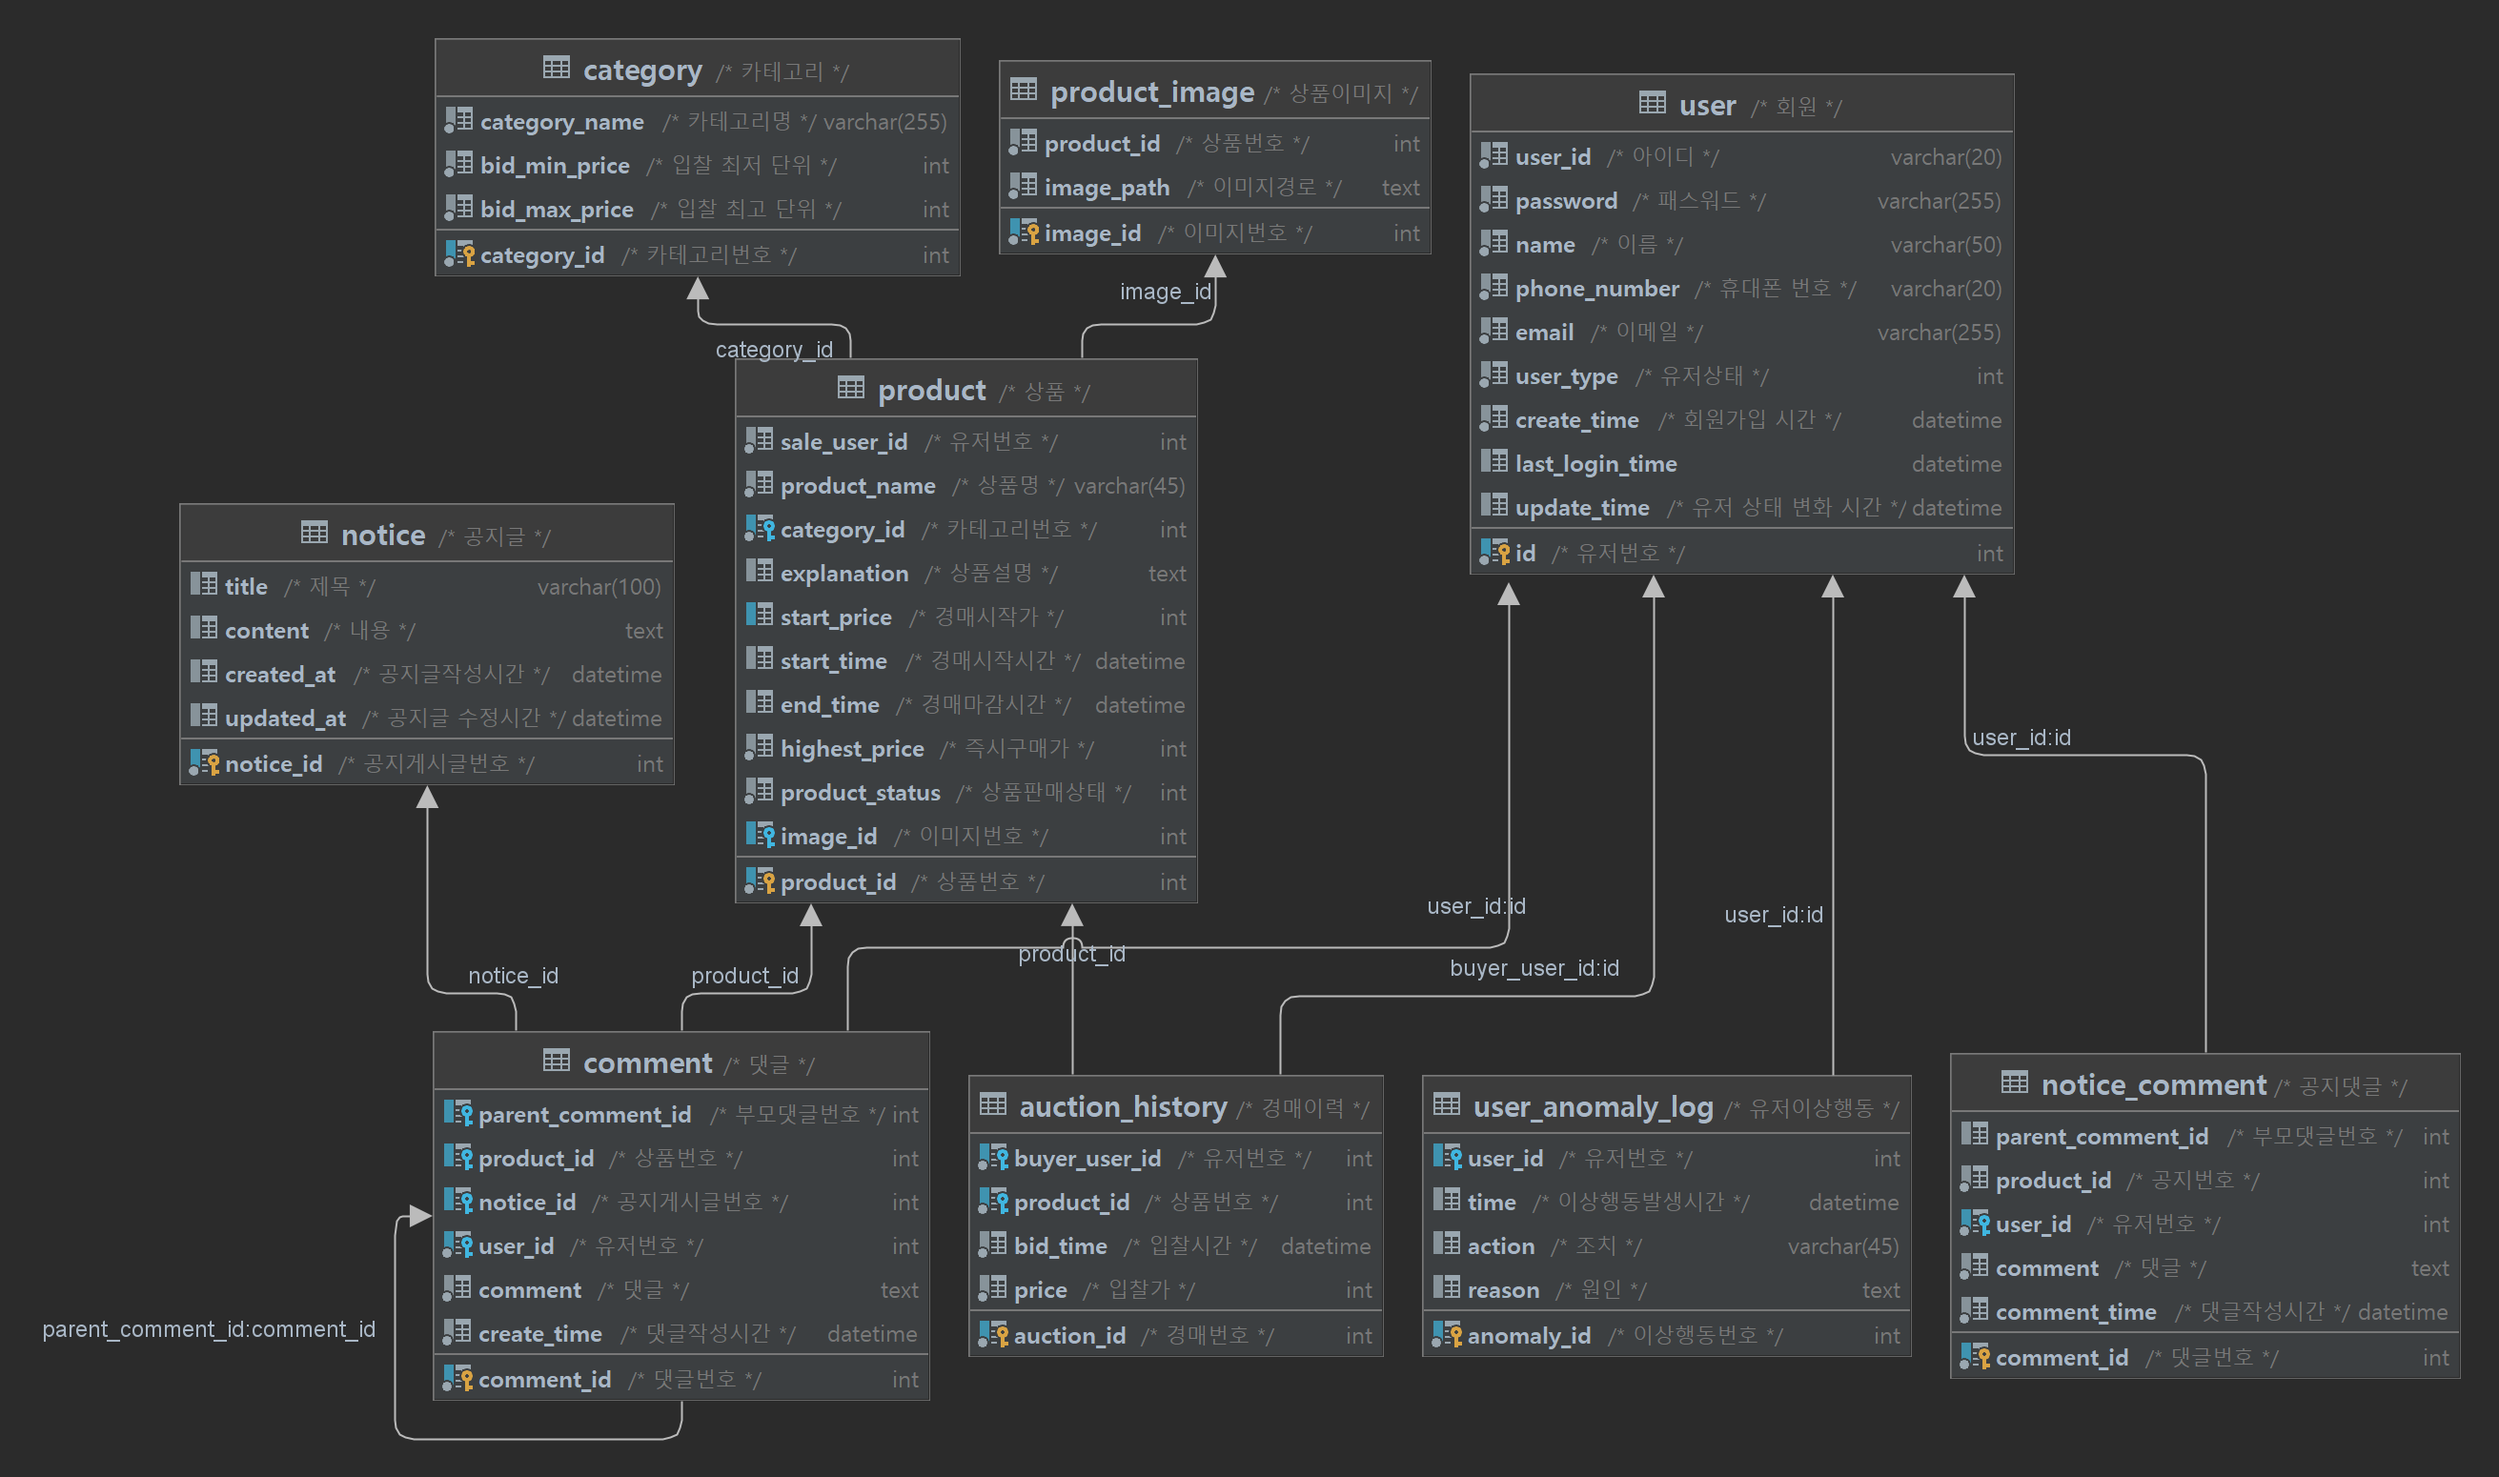
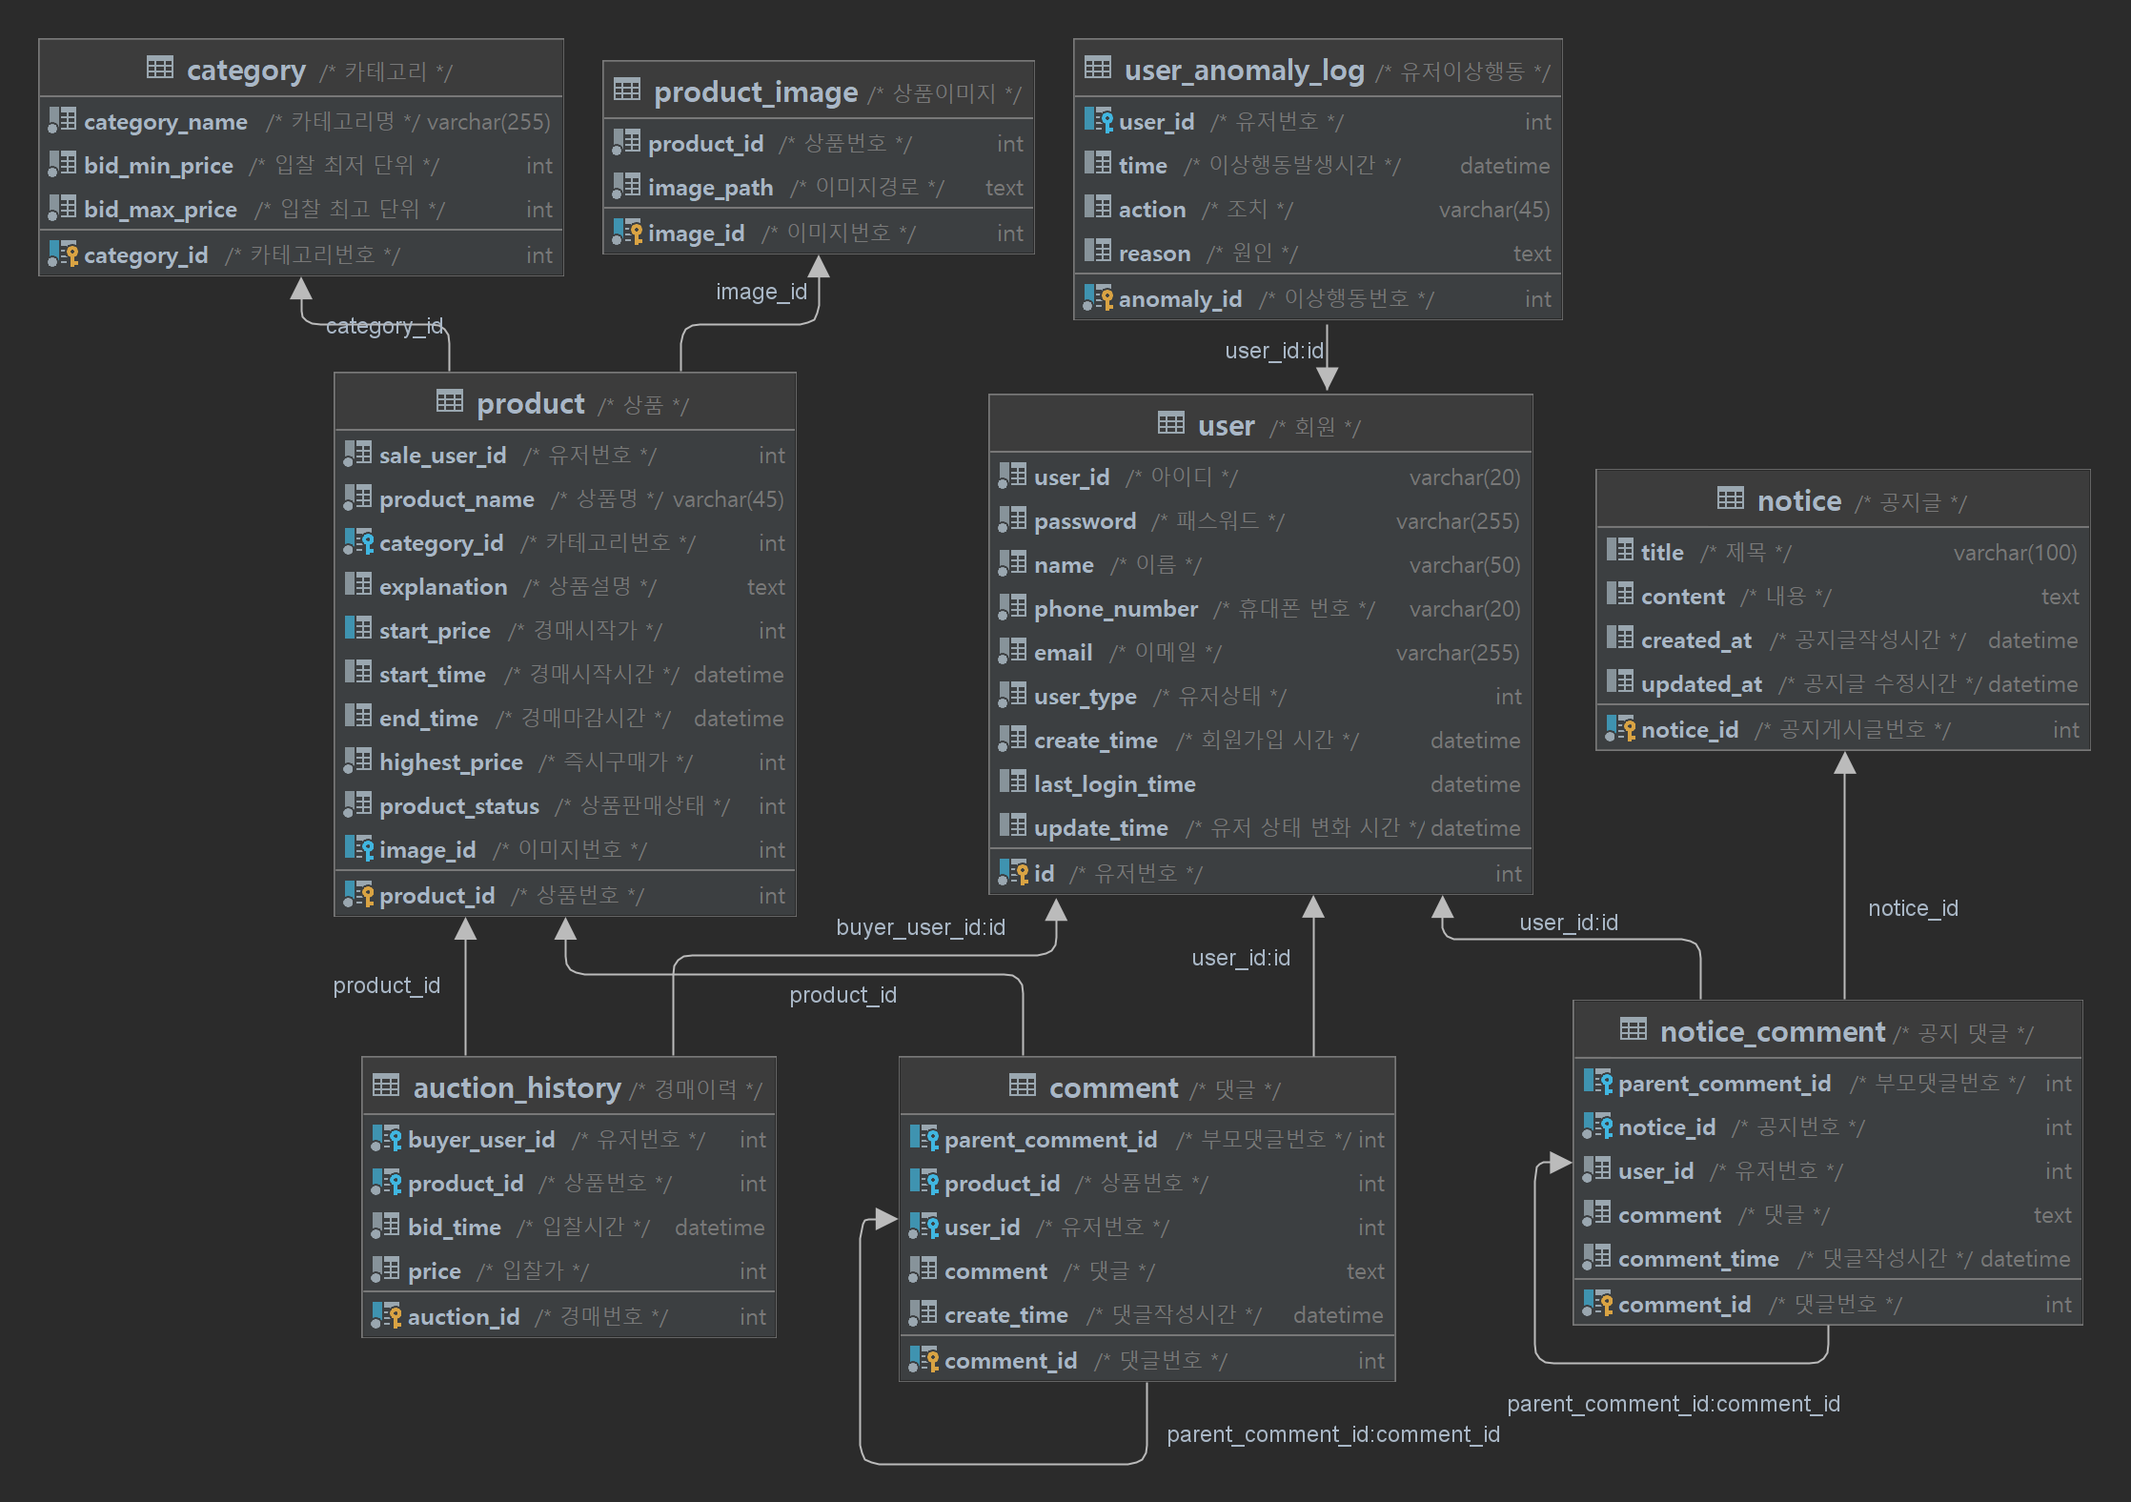
ENH: issue/2번 ERD 수정(notice 외래키 수정)

diff --git a/README.md b/README.md
@@ -25,6 +25,7 @@
     - 회원 수정
     - 유저 상태(판매자, 구매자, 관리자, 인증대기)
     - 본인확인 기능(이메일을 통한 인증)
+    - 자신의 이상 유저 제재 로그 확인
 - 상품 관리 및 경매 상태 관리
     - 상품 등록, 조회, 삭제 기능
     - 상품 문의 기능(댓글)
@@ -39,6 +40,8 @@
         - 물품 삭제(관리자에 의한)
 - 관리자 기능
     - 이상 유저 제재
+        - 대량 등록(1000milli second 안에 10개 이상의 물품을 등록할때, 사람이 아닌 api 또는 툴을 이용했을때)
+        - 6개월 이상의 미접속자
     - 카테고리 관리
         - 입찰 단위 설정
     - 공지글 추가
